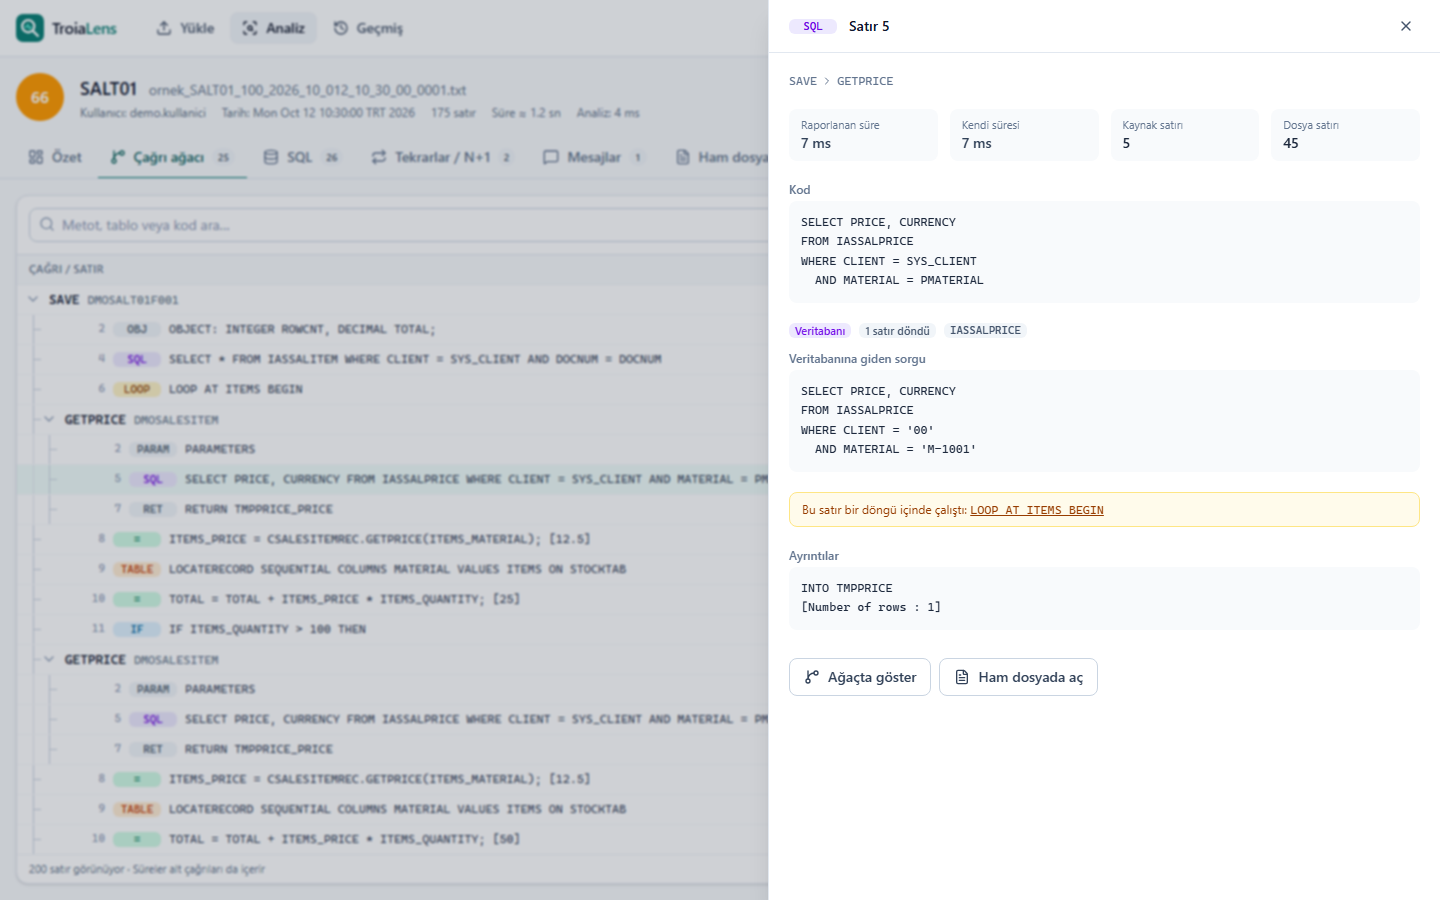
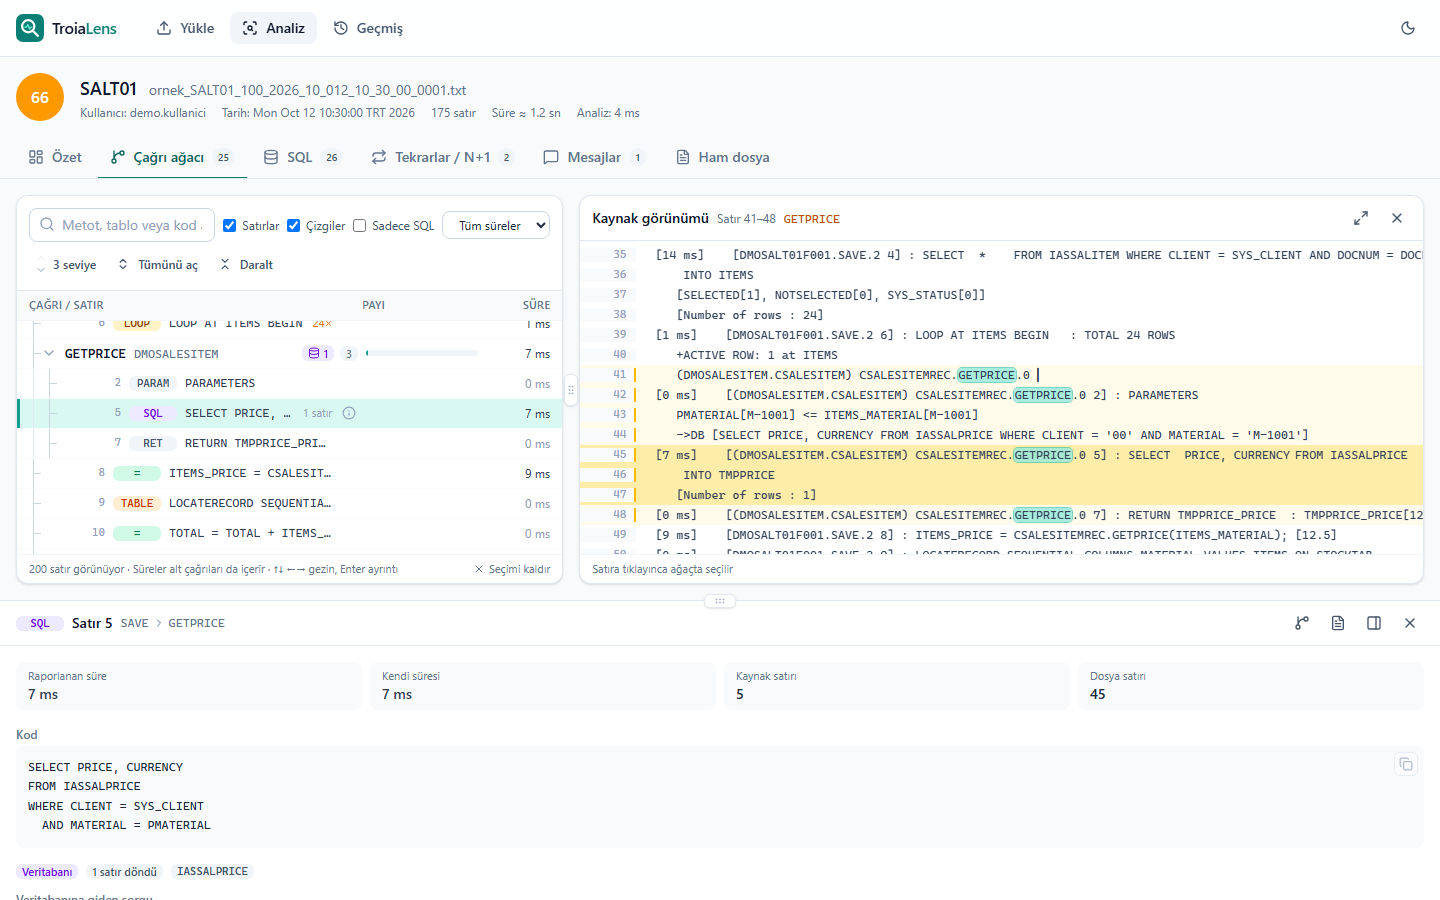
README ve ekran görüntülerini güncelle

diff --git a/README.md b/README.md
@@ -10,7 +10,10 @@
 
 Canias ERP'nin ürettiği **TROIA CODE EXECUTION TRACE** dosyalarını analiz eden web uygulaması.
 
-- Çağrı ağacı: event, metot ve sınıf çağrıları, her düğümün süresi ve SQL sayısı.
+- Çağrı ağacı: event, metot ve sınıf çağrıları, her düğümün süresi ve SQL sayısı. Açılacak seviye ↑↓ ile seçilir.
+- Kaynak görünümü: ağaçta seçilen satır, metot bloğu işaretli olarak trace dosyasında. Kenarından sürüklenerek
+  genişletilir, tek tıkla ekranı kaplar.
+- Satır ayrıntısı alt bölmede ya da sağda kayan panelde (başlıktaki düğmeyle geçilir); kod bloklarında kopyala düğmesi.
 - SQL analizi: sorgular parametresiz haliyle gruplanır, veritabanı ve önbellek isabetleri ayrılır.
 - N+1 tespiti: aynı döngü çalışmasında tekrar eden sorgu ve metot çağrıları.
 - Sağlık skoru: 0–100 arası skor ve öneri listesi.
@@ -27,7 +30,7 @@ Görüntüler `public/sample-trace.txt` örnek dosyasıyla alındı (uydurma ver
 | | |
 |---|---|
 | ![Ana sayfa](docs/screenshots/home.png) | ![Çağrı ağacı ve satır detayı](docs/screenshots/call-tree.png) |
-| Ana sayfa | Çağrı ağacı ve satır detayı |
+| Ana sayfa | Çağrı ağacı, kaynak görünümü ve alttaki satır ayrıntısı |
 | ![SQL analizi](docs/screenshots/sql.png) | ![Tekrarlar ve N+1](docs/screenshots/repeats.png) |
 | SQL analizi | Tekrarlar ve N+1 |
 | ![Koyu tema](docs/screenshots/overview-dark.png) | |
@@ -62,12 +65,13 @@ src/lib/worker.ts        Parser + analizi Web Worker'da çalıştırır
 src/lib/run.ts           Worker çağrısı, dosya okuma (UTF-8 / windows-1254), dosya adı çözümleme
 src/lib/storage.ts       Geçmiş (IndexedDB)
 src/lib/host.ts          Gömülü mod köprüsü (WebView2), inHost()
+src/lib/locate.ts        Ağaç satırı ↔ dosya satırı eşlemesi, editör işaretleri, tek başına CR düzeltmesi
 src/App.tsx              inHost() ? EmbeddedApp : StandaloneApp
 src/apps/StandaloneApp   Tarayıcı uygulaması: hash router #/  #/analiz  #/gecmis
 src/apps/EmbeddedApp     Gömülü mod: içerik host uygulamadan gelir
 src/pages/               Home, AnalysisPage, History
-src/components/analysis  Overview, CallTree, SqlView, RepeatsView, MessagesView, RawView, StatementDetail
-src/components/ui.tsx    Ortak parçalar + VirtualList (sabit satır yüksekliği)
+src/components/analysis  Overview, CallTree, SourcePane, SqlView, RepeatsView, MessagesView, RawView, StatementDetail
+src/components/ui.tsx    Ortak parçalar: VirtualList (sabit satır yüksekliği), CodeBlock, ResizeHandle
 scripts/parse-check.ts   Komut satırından parser testi
 scripts/make-sample.ts   public/sample-trace.txt üretir (uydurma veri)
 samples/                 Gerçek trace'ler — repoda yok, bkz. "Test"
@@ -81,8 +85,8 @@ Analiz ekranı ve tüm görünümler iki modda aynıdır; aradaki fark `Analysis
 
 | Yön | Mesaj |
 |---|---|
-| sayfa → host | `{ type: 'ready' }`, `{ type: 'gotoLine', line, focus }`, `{ type: 'reload' }` |
-| host → sayfa | `{ type: 'theme', dark }`, `{ type: 'load', name, text }`, `{ type: 'loadUrl', name, url }`, `{ type: 'notTrace', name }`, `{ type: 'empty' }` |
+| sayfa → host | `{ type: 'ready' }`, `{ type: 'gotoLine', line, focus }`, `{ type: 'mark', from, to, line, lineEnd, word }`, `{ type: 'clearMarks' }`, `{ type: 'reload' }`, `{ type: 'setPrefs', detailSlideOver }` |
+| host → sayfa | `{ type: 'theme', dark }`, `{ type: 'prefs', detailSlideOver }`, `{ type: 'load', name, text }`, `{ type: 'loadUrl', name, url }`, `{ type: 'notTrace', name }`, `{ type: 'empty' }`, `{ type: 'caret', line }` |
 
 - Host metni ancak `ready` mesajından sonra gönderir. Büyük dosyalarda `loadUrl` tercih edilir; sayfa metni `fetch(url)` ile okur.
 - `line` 1 tabanlıdır ve parser'ın saydığı dosya satırıdır (`\r?\n` ile bölünmüş).
